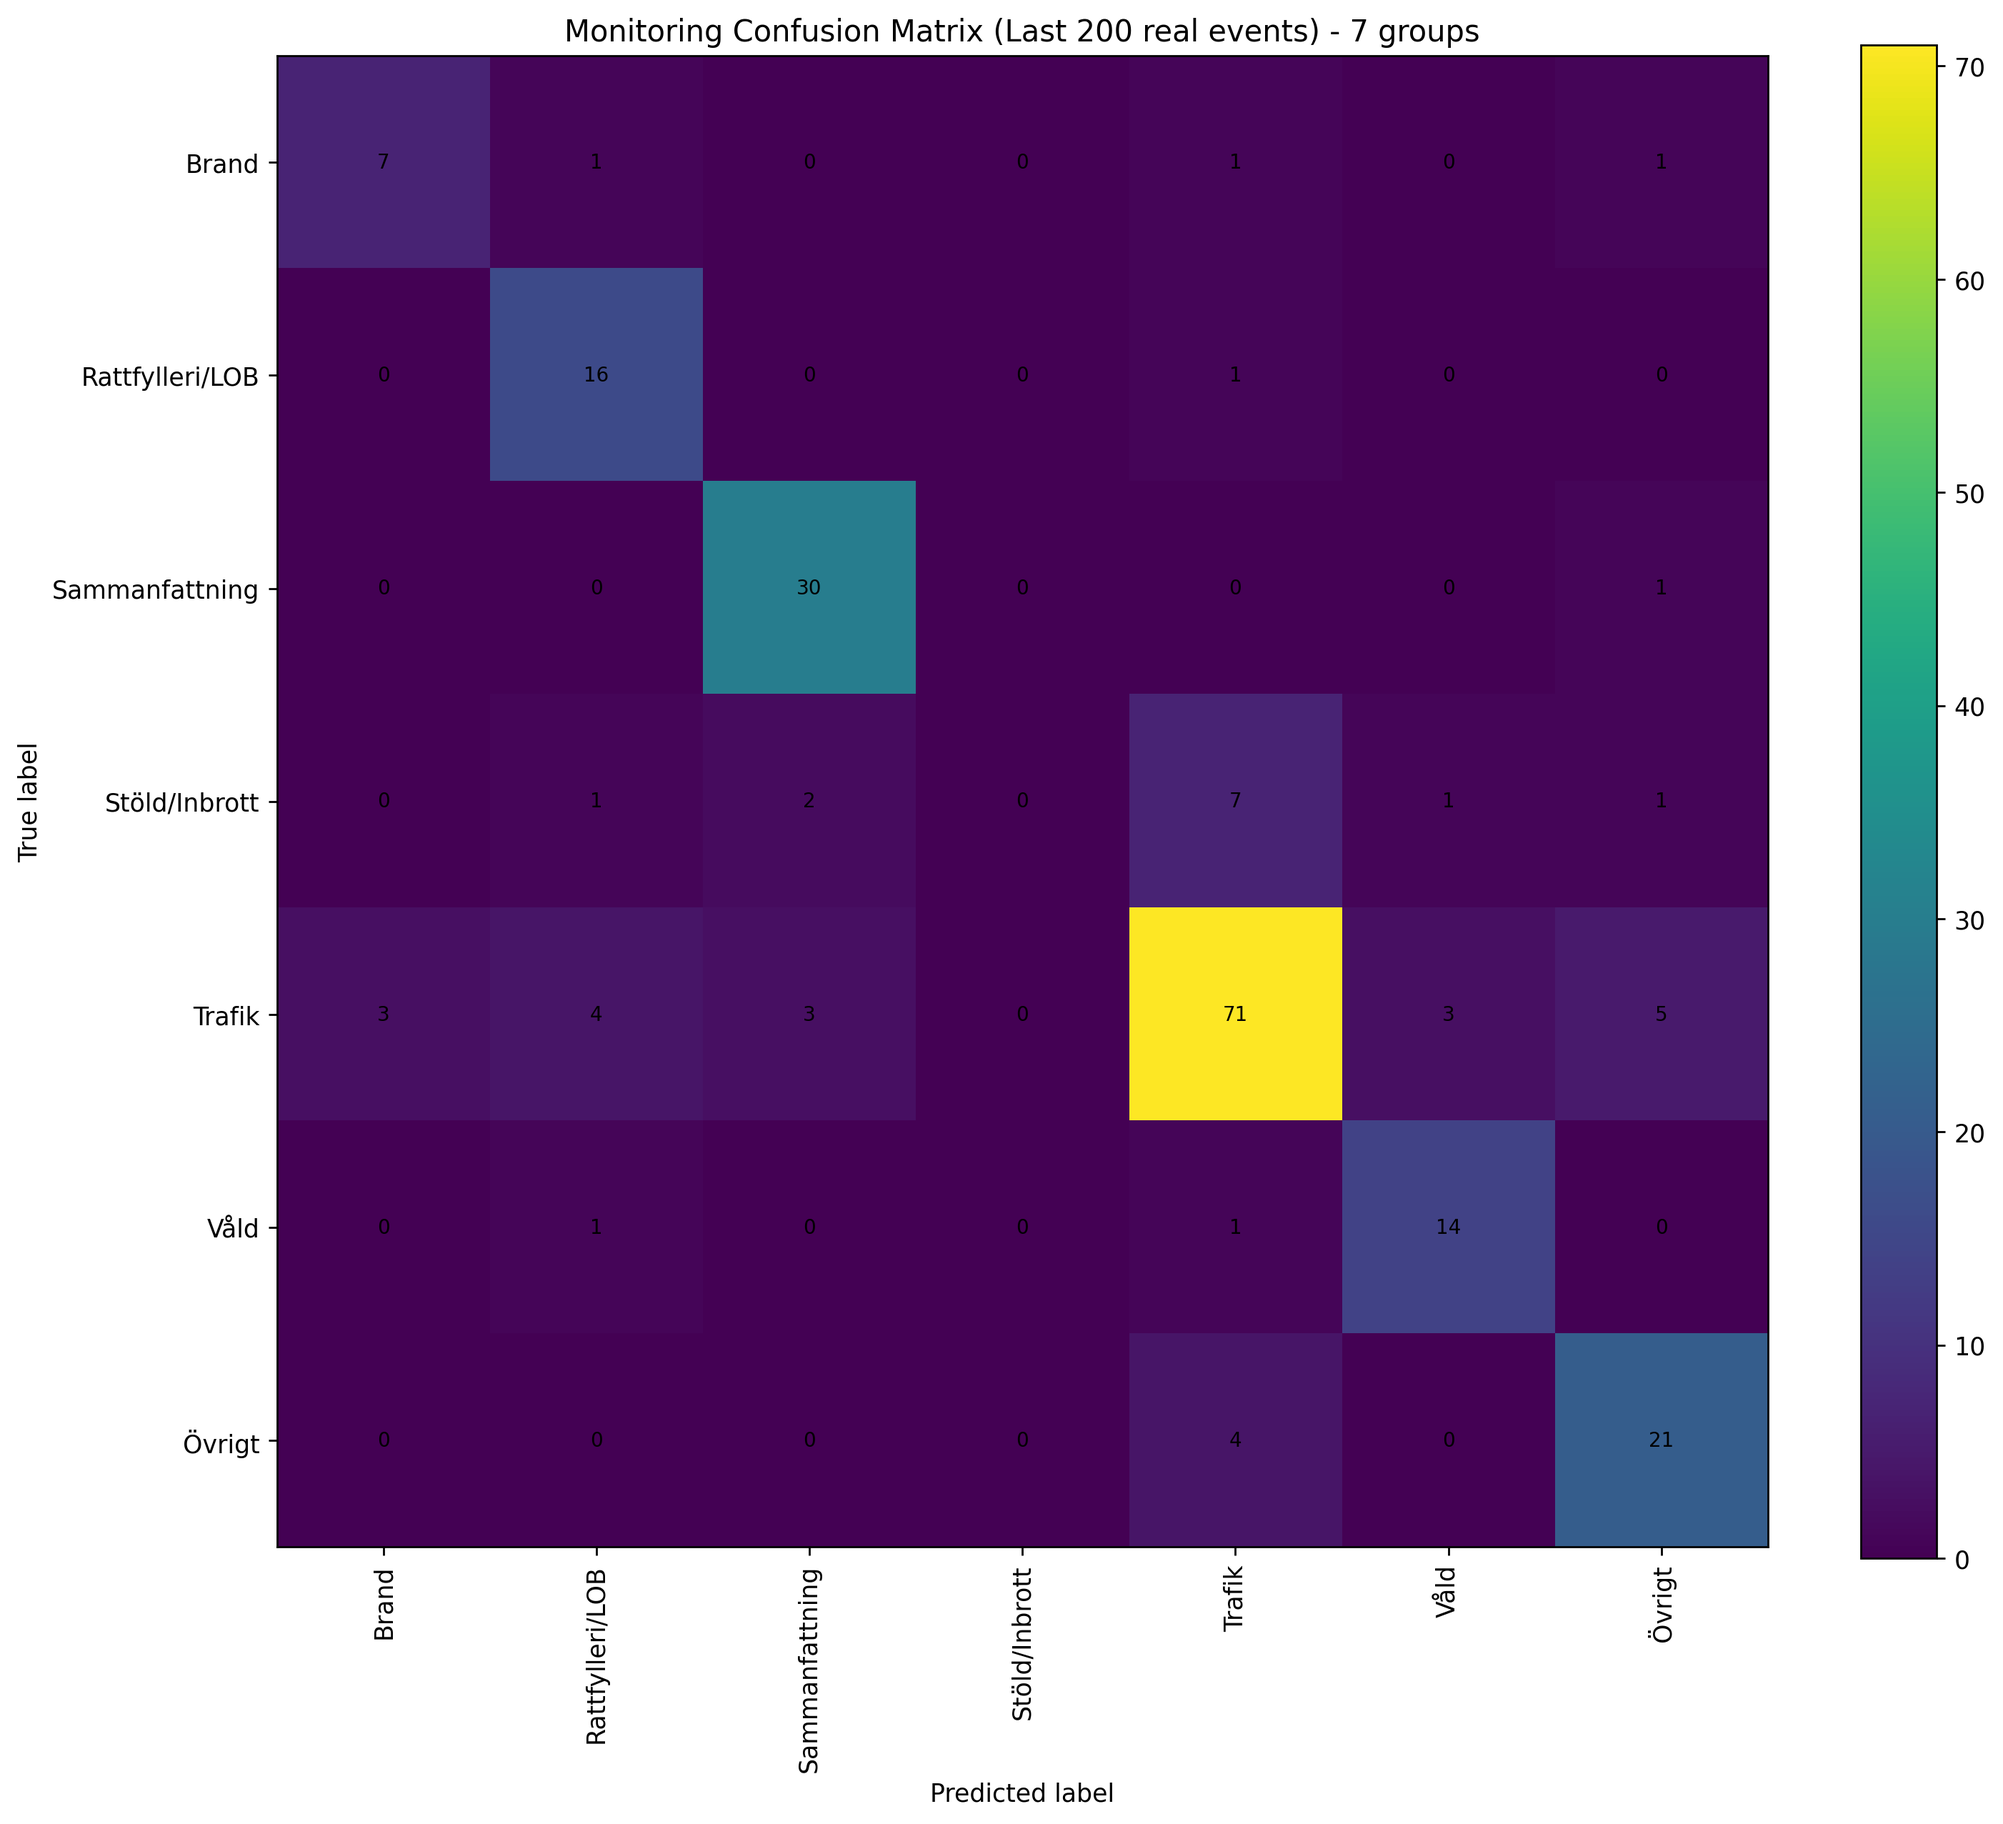
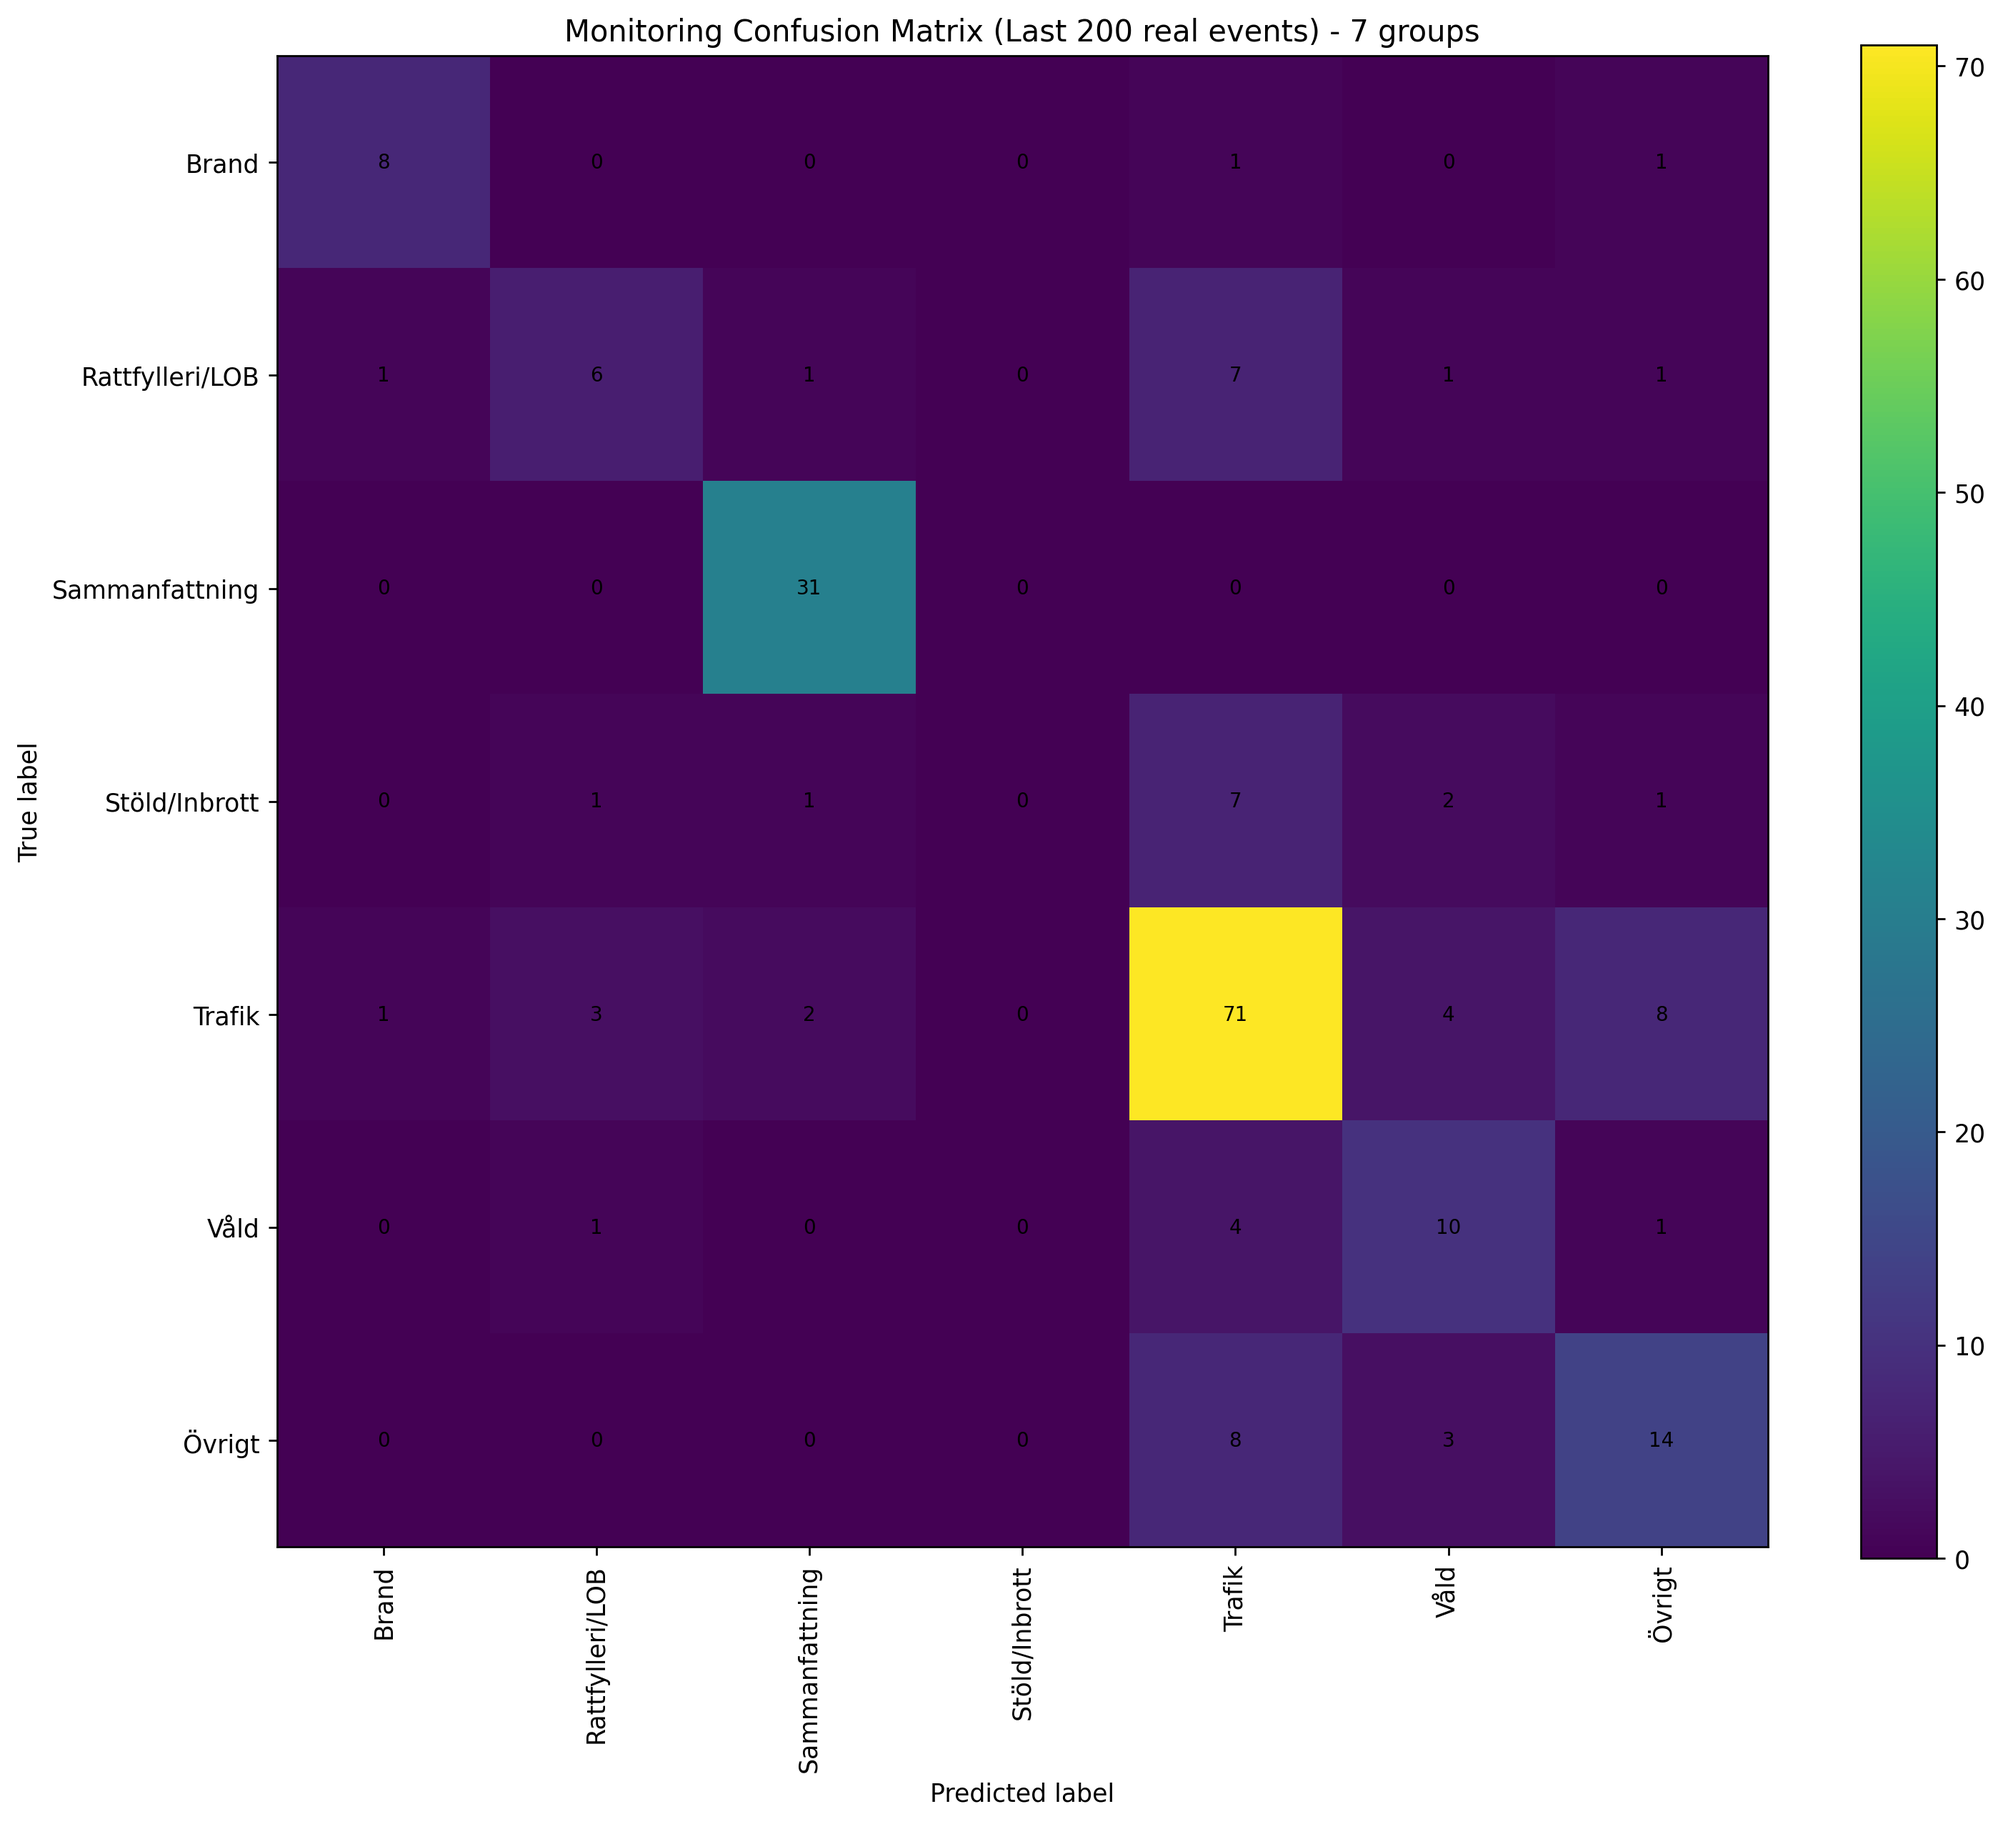
fix point-in-time correctness

Changed region(s): [[0.2172, 0.1238, 0.3723, 0.2785], [0.7757, 0.7117, 0.8998, 0.8664], [0.5585, 0.1238, 0.6826, 0.2785]]

diff --git a/src/2_training_pipeline.py b/src/2_training_pipeline.py
@@ -97,6 +97,7 @@ def train_model(min_count: int = 30, test_size: float = 0.2) -> None:
     vc = df[LABEL_COL].value_counts()
     keep = vc[vc >= min_count].index.tolist()
     df = df[df[LABEL_COL].isin(keep)].copy()
+    df = df.sort_values("datetime")
 
     print(f"✅ Kept {len(keep)} grouped classes (min_count={min_count})")
     print(f"✅ Rows after filtering: {len(df)}")
@@ -108,9 +109,16 @@ def train_model(min_count: int = 30, test_size: float = 0.2) -> None:
     le = LabelEncoder()
     y_int = le.fit_transform(y)
 
+    """
     X_train, X_test, y_train, y_test = train_test_split(
         X, y_int, test_size=test_size, random_state=42, stratify=y_int
     )
+    """
+    num_train = int((1 - test_size) * len(X))
+    X_train = X.iloc[:num_train]
+    y_train = y_int[:num_train]
+    X_test = X.iloc[num_train:]
+    y_test = y_int[num_train:]
 
     print(f"✅ Train rows: {len(X_train)} | Test rows: {len(X_test)}")
 

diff --git a/src/app.py b/src/app.py
@@ -10,20 +10,7 @@ FG_NAME = "police_events"
 FG_VERSION = 2
 
 PRED_FG_NAME = "police_predictions"
-PRED_FG_VERSION = 5
-
-MODEL_NAME = "police_crime_model"
-MODEL_MIN_VERSION = 38
-
-
-def get_best_model(mr):
-    models = mr.get_models(name=MODEL_NAME)
-    candidates = [m for m in models if m.version >= MODEL_MIN_VERSION]
-    best_model = max(
-        candidates,
-        key=lambda m: m.training_metrics.get("balanced_accuracy", float("-inf"))
-    )
-    return best_model
+PRED_FG_VERSION = 6
 
 
 # -----------------------------

diff --git a/src/3_inference_pipeline.py b/src/3_inference_pipeline.py
@@ -32,14 +32,14 @@ if not API_KEY:
 CACHE_FILE = "src/city_coords.json"
 
 MODEL_NAME = "police_crime_model"
-MIN_VERSION = 38
+MIN_VERSION = 41
 
 EVENTS_FG_NAME = "police_events"
 EVENTS_FG_VERSION = 2  # must match your daily FG version
 
 # ✅ NEW schema for grouped predictions -> use NEW version
 PRED_FG_NAME = "police_predictions"
-PRED_FG_VERSION = 5  # <-- changed from 4 to 5
+PRED_FG_VERSION = 6
 
 
 # -----------------------------
